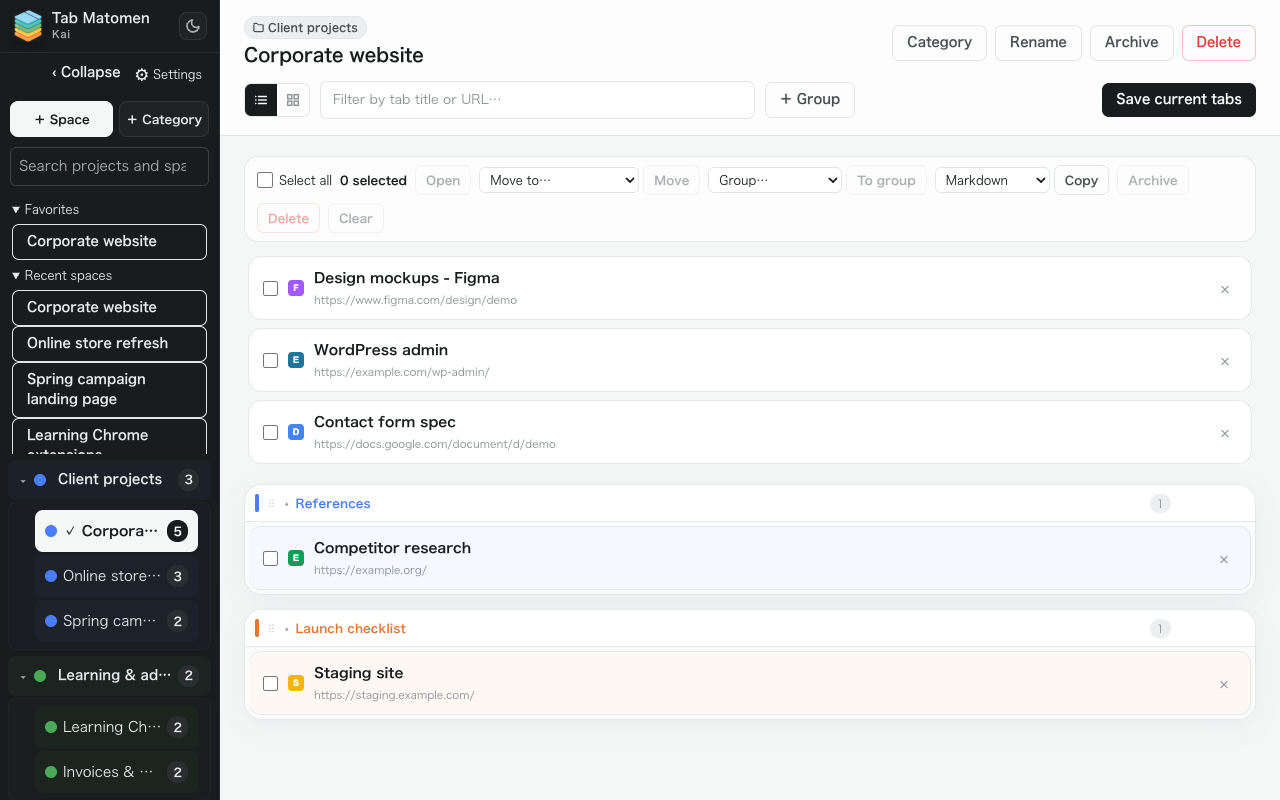
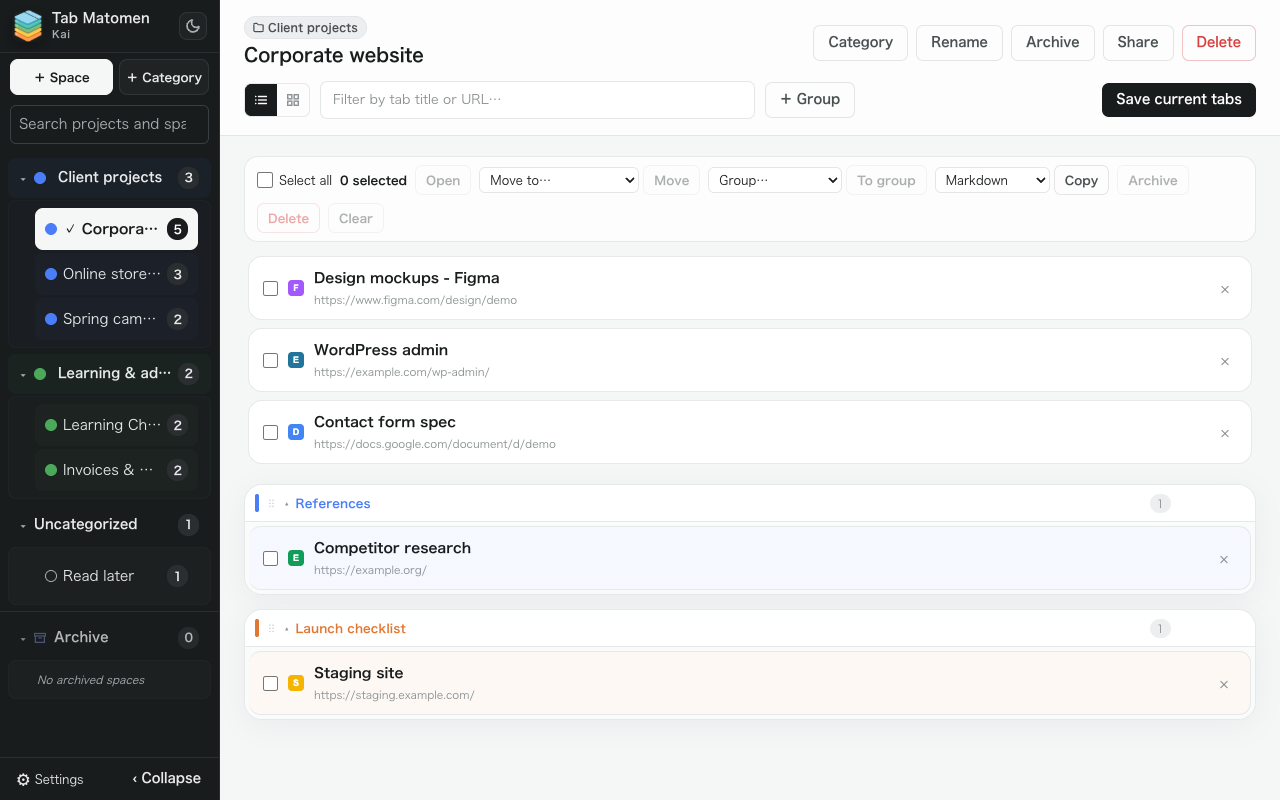
ストア掲載画像を作り直し：今の画面で撮り直し、フリーランスのWeb制作者向けに構成と文言を変更（Driveの自動保存を2枚目に）

diff --git a/planning/DEVELOPMENT-HISTORY.md b/planning/DEVELOPMENT-HISTORY.md
@@ -480,3 +480,11 @@ Playwright 1.62 の `page.waitForFunction` に async 関数を渡すと、最初
 - Stripe：利用者の承認を得て、Managed Payments の「デフォルトで有効」をオフ（元に戻せない設定。Webの相棒など他の決済に Managed Payments が付かないように）。Pro 版は購入ごとにコードで有効にしているので影響なし（オフにした後も決済画面は Link 経由のままを確認）。テストモードの Webhook は無効化（本番の鍵では署名が合わず失敗し続けるため）。
 - 税金：税理士には相談しない方針。`planning/TAX-NOTES.md` に、Managed Payments の取引の形（販売者は Link, LLC）にもとづく消費税（不課税＝国外取引として扱う、確信度つき）・所得税・freee の仕訳例・年1回の確認点をまとめた。
 - 1.5.0：manifest の version を上げ、`dist/tab-matomenkai-1.5.0.zip` を作成。ZIP を展開して読み込み、エラーなし・テーマ5種・スペース作成モーダル・Pro カードを確認。提出の手順と入力内容（プライバシーポリシー URL、データの使用、アプリ内購入、審査メモ）を `store/SUBMIT-1.5.0.md` に。ウェブストアのページは自動操作できないため、アップロードと送信は利用者の手作業。
+
+## 2026-10-30 ストア掲載画像の作り直し（狙う人：フリーランスのWeb制作者）
+- 利用者の依頼：ストアの文章・画像が狙う人に刺さるか確認し、画像を作り直す。
+- 確認結果：公開中の画像（`store-assets/` の 8 月版）は右半分が空の画面でコピーもなく、何の拡張か伝わらなかった。紹介動画（40秒）は狙いどおりだが未掲載（YouTube 必須）。
+- `tools/store-screenshots.cjs`：今の画面（設定ボタンがサイドバー下）で撮り直し、スペース作成モーダルの撮影を追加。お気に入り・最近使った欄の重複表示をなくした。
+- `tools/store-composite.cjs`：5枚の順と文言を変更（案件ごとのスペース → Googleドライブに自動保存（Pro・買い切り300円）→ 右クリック保存 → 一括操作 → 色とアイコン）。Drive の保存一覧は画面の見本（ファイル名とフォルダ名は実際の命名に合わせた）。日本語・英語とプロモーションタイル2種を生成。
+- `store/SUBMIT-1.5.0.md` に画像の差し替え手順を追加。ストアへのアップロードは利用者の手作業。
+
